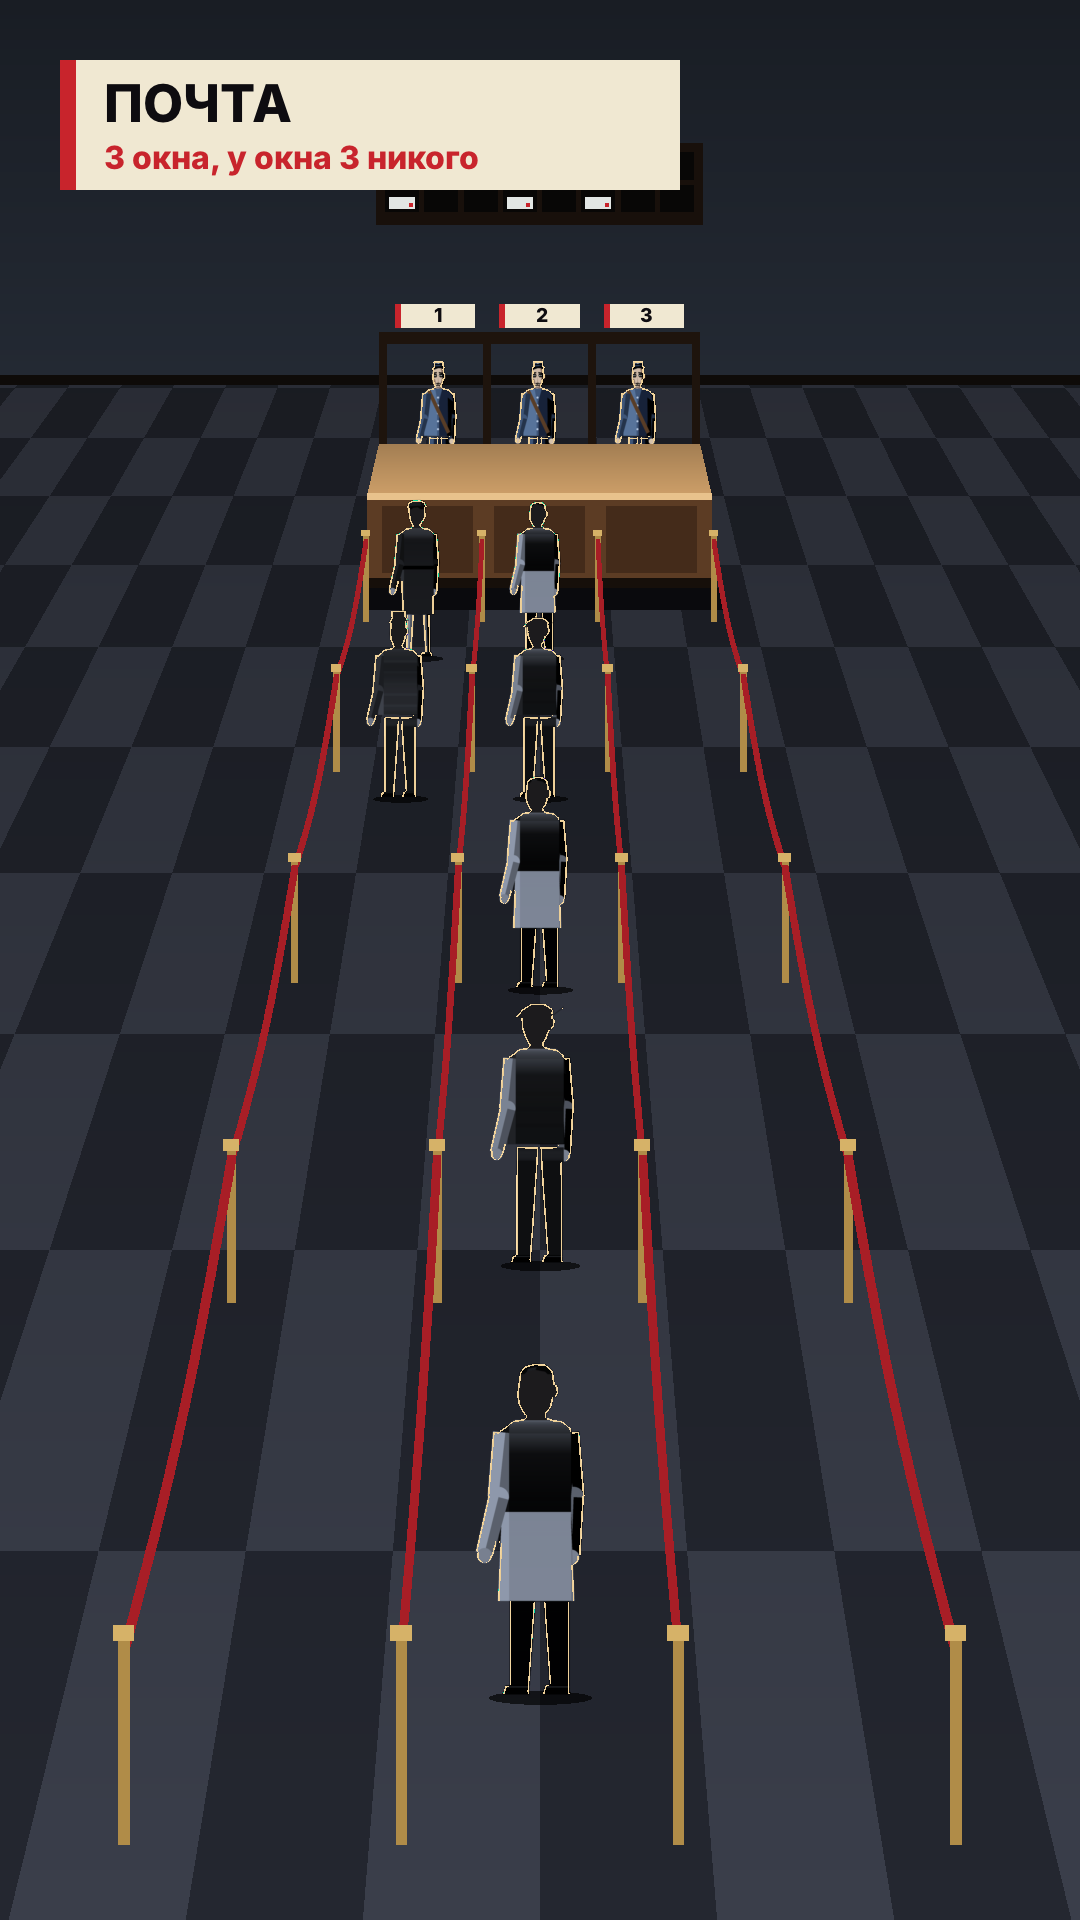
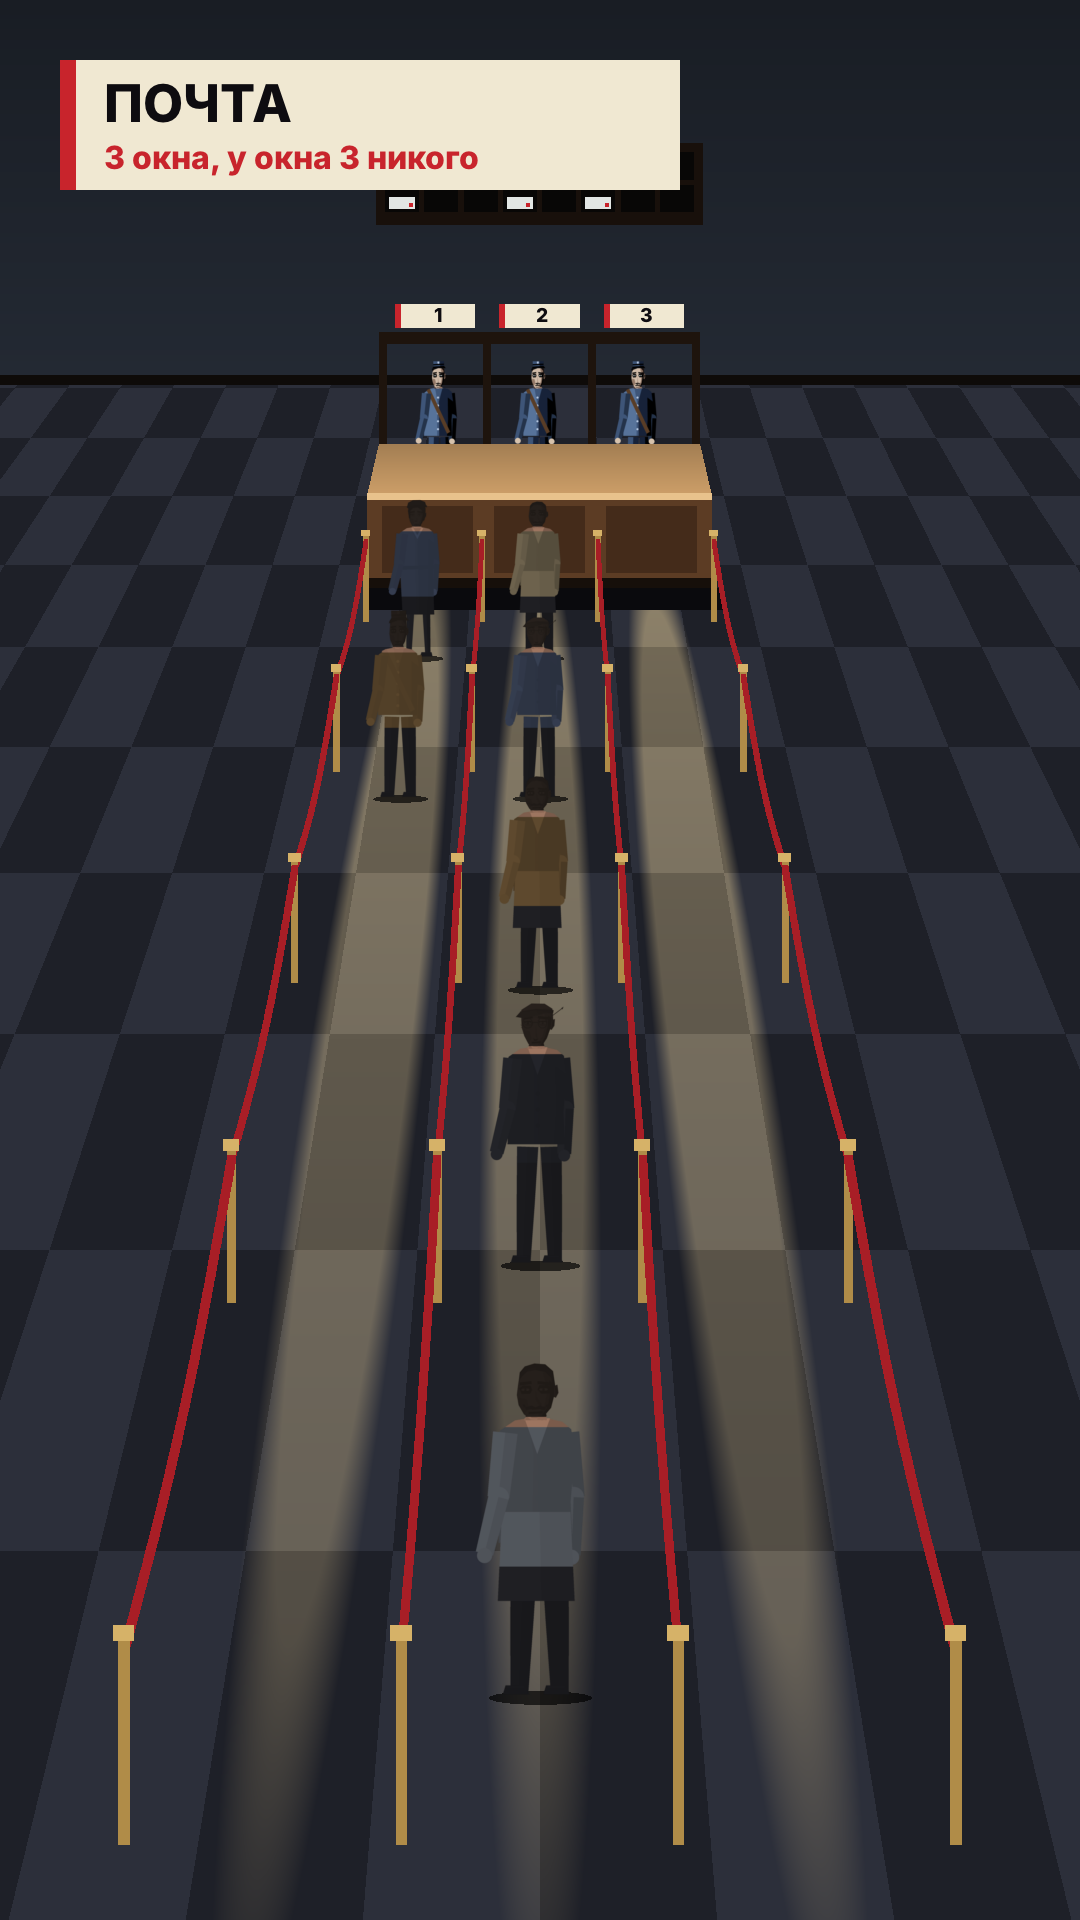
[maket-engine] Design: a dark hall with a lamp over each window lighting its queue, people in muted coats of different colours

Changed region(s): [[0.2139, 0.25, 0.4278, 0.9375], [0.4278, 0.25, 0.55, 0.9375], [0.5806, 0.3125, 0.7639, 0.9375]]

diff --git a/docs/design/rooms.md b/docs/design/rooms.md
@@ -59,14 +59,14 @@
 
 ## Чтобы кадр читался
 
-- Пол холодный: серо-синяя плитка в перспективе, темнее у стены.
+- Зал тёмный. Над каждым окном лампа, она бросает на дорожку очереди пятно тёплого света. Пятно слабеет к зрителю, между дорожками темно.
 - Стойка тёплая: светлый верх с яркой кромкой, тёмный деревянный фасад, чёрная тень на полу у основания. С полом не спутать.
 - Очередь всегда стоит спиной к зрителю, лицом к своему окну. Первый — у окна, хвост — к зрителю.
 - Каждое окно — отдельная дорожка: латунные столбики с красным канатом от стойки к зрителю. Видно, какая очередь к какому окну.
 - Над окном табличка с номером. Если она меньше 11 пикселей, номер не пишется.
 - В очереди между людьми метр. Камера стоит так высоко, что голова заднего видна над плечами переднего: каждый человек виден целиком.
 - Люди и канаты рисуются по глубине вместе. Канат уходит за человека, который стоит ближе, и проходит перед тем, кто дальше.
-- У каждой фигуры тонкий светлый контур, как от ламп над окнами. Тёмные спины не сливаются друг с другом и с полом.
+- Люди — тёмные силуэты на светлом пятне. Со спины у каждого своё приглушённое пальто: синее, бежевое, бурое, серое, чёрное. Соседи одного цвета не бывают.
 
 ## Пробные кадры
 
